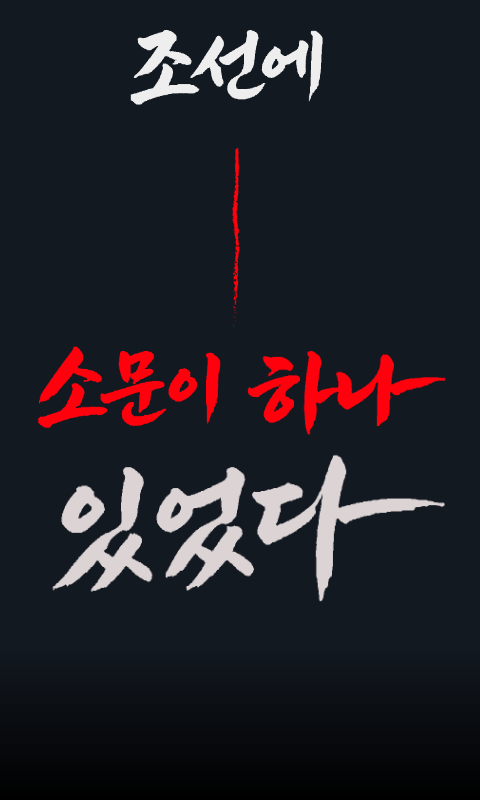
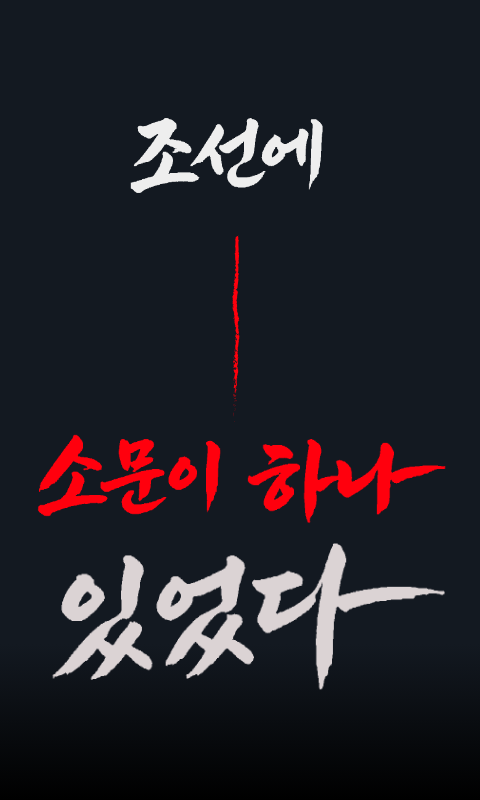
fix: 말풍선/여백 텍스트 고정 px로 (모바일 크기 일관성)

Changed region(s): [[0.0625, 0.0312, 0.9375, 0.875]]

diff --git a/src/app/(detail)/saju/total/page.tsx b/src/app/(detail)/saju/total/page.tsx
@@ -264,7 +264,7 @@ function ChapterBlock({ chapter, index }: { chapter: typeof CHAPTERS[0]; index: 
             }}>
               <p className="whitespace-pre-line font-bold leading-snug" style={{
                 fontFamily: "'Pretendard', 'Apple SD Gothic Neo', sans-serif",
-                fontSize: "clamp(13px, 3.4vw, 24px)",
+                fontSize: "18px",
                 color: "#1a1a1a",
               }}>
                 {p.text}
@@ -286,7 +286,7 @@ function ChapterBlock({ chapter, index }: { chapter: typeof CHAPTERS[0]; index: 
           }}>
           <p className="font-bold whitespace-pre-line leading-snug" style={{
             fontFamily: "'Pretendard', 'Apple SD Gothic Neo', sans-serif",
-            fontSize: "clamp(18px, 5vw, 26px)",
+            fontSize: "20px",
             color: "#1a1a1a",
           }}>
             {c.text}
@@ -300,7 +300,7 @@ function ChapterBlock({ chapter, index }: { chapter: typeof CHAPTERS[0]; index: 
           style={{ top: (chapter as any).overlayText.position === "top" ? "0%" : undefined, bottom: (chapter as any).overlayText.position === "bottom" ? "8%" : undefined, transform: (chapter as any).overlayText.position === "top" ? "translateY(-50%)" : undefined }}>
           <p style={{
             fontFamily: "'Pretendard', 'Apple SD Gothic Neo', sans-serif",
-            fontSize: "clamp(20px, 5.5vw, 28px)",
+            fontSize: "24px",
             fontWeight: 700,
             color: "#9b2335",
             letterSpacing: "0.05em",
@@ -407,7 +407,7 @@ export default function TotalPage() {
                   {gap.text && (
                     <p className="whitespace-pre-line text-center leading-snug" style={{
                       fontFamily: "'Pretendard', 'Apple SD Gothic Neo', sans-serif",
-                      fontSize: "clamp(20px, 5.5vw, 38px)",
+                      fontSize: "30px",
                       fontWeight: 700,
                       color: "#ffffff",
                       letterSpacing: "0.05em",